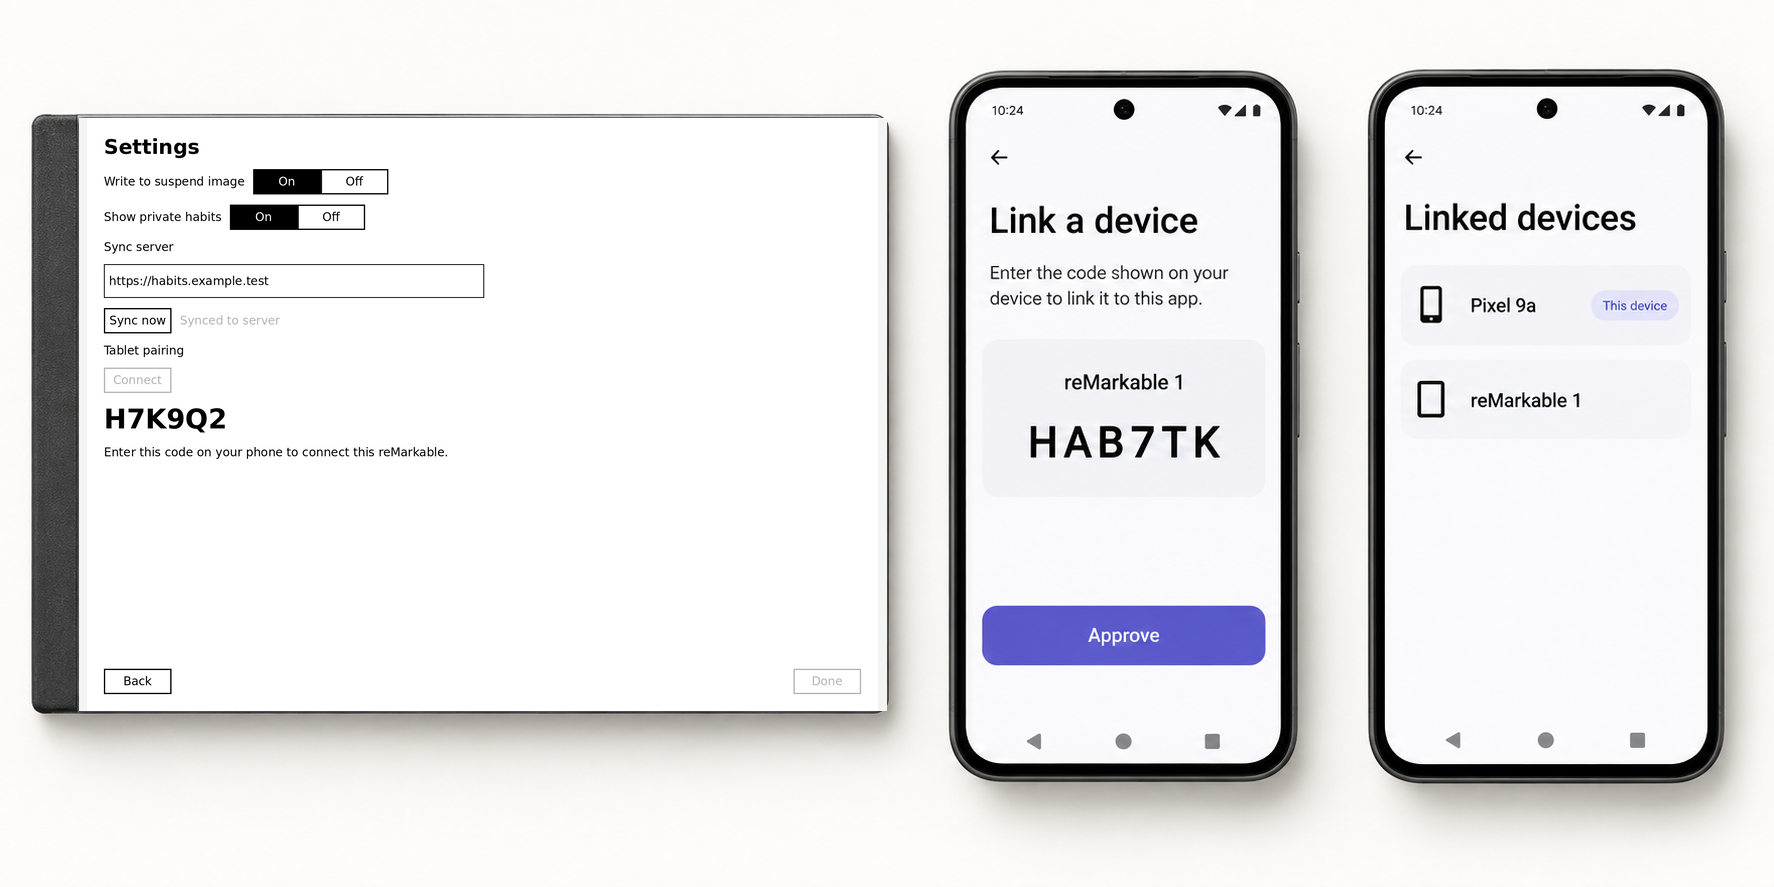
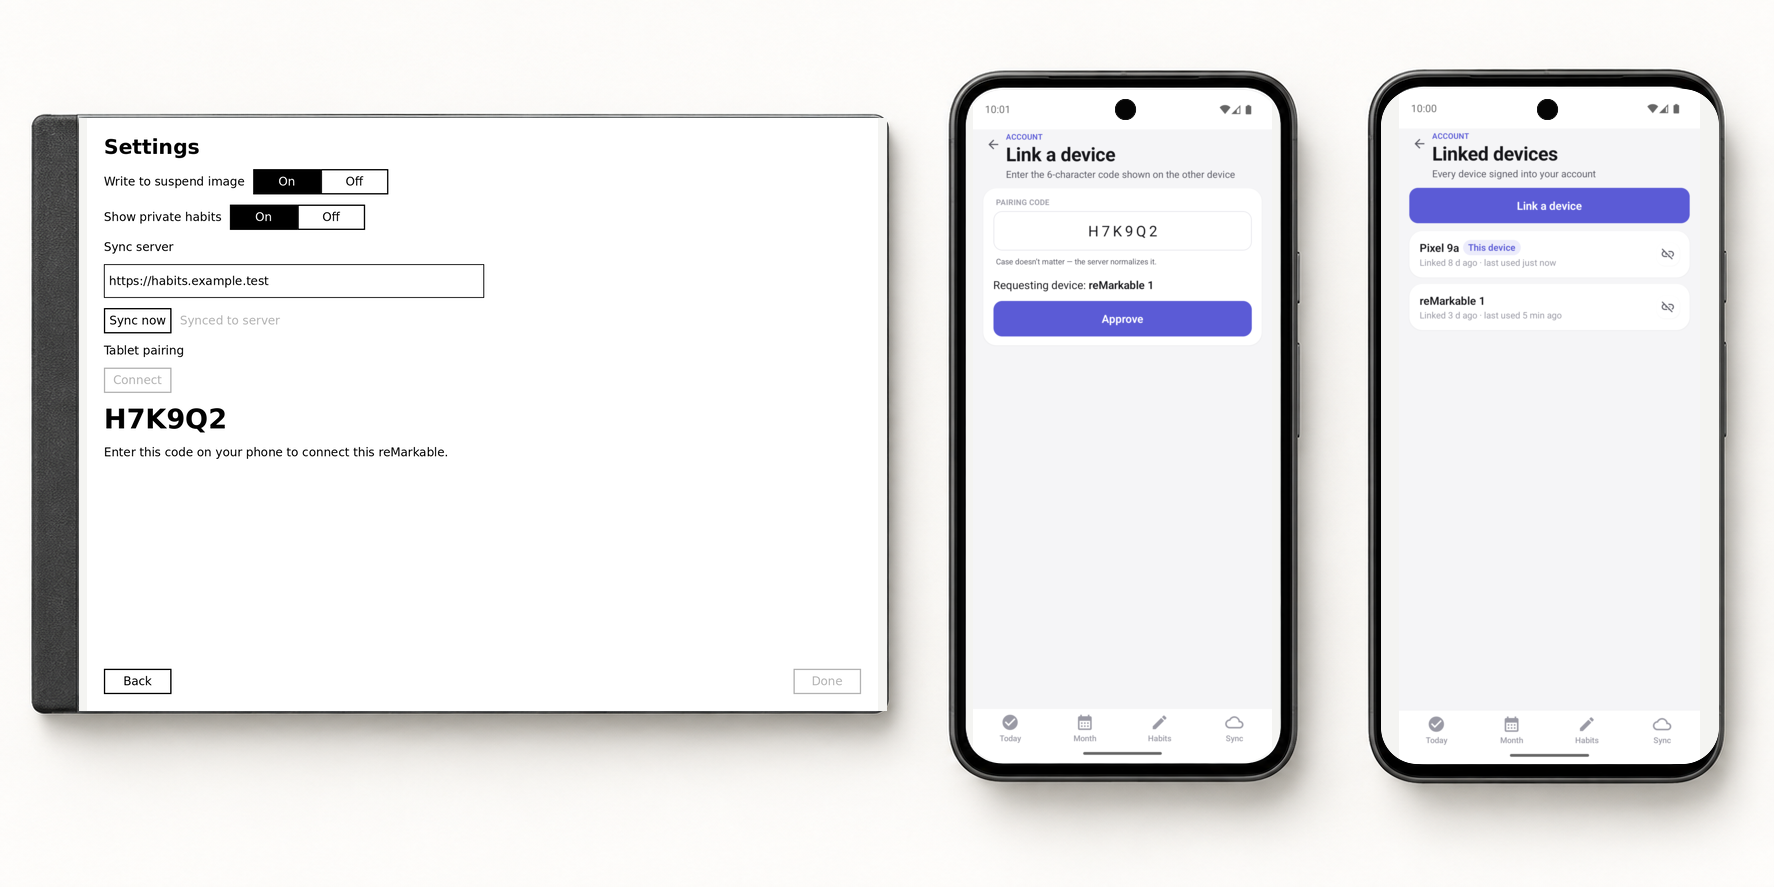
docs: use real Android screenshots
Frame all six native Android captures, replace the linking scene placeholders, and add the mobile workflow examples to the README.

diff --git a/README.md b/README.md
@@ -13,10 +13,9 @@
   </tr>
 </table>
 
-The screen pixels are captures from the real reMarkable interface and suspend renderer, populated
-with fictional sample data. A deterministic compositor fits them into the device artwork retained
-from the linking concept. The mobile screens shown later are explicitly marked as AI-generated
-placeholders until the native Android capture workflow is validated end to end.
+The screen pixels are captures from the real reMarkable and Android interfaces, populated with
+fictional sample data. A deterministic compositor fits them into the device artwork retained from
+the linking concept.
 
 This repository contains three parts of one habit-tracking system:
 
@@ -42,13 +41,12 @@ The reMarkable requests a short pairing code. The signed-in mobile app identifie
   <img src="docs/assets/screenshots/framed/remarkable-pairing.png" alt="The real reMarkable pairing screen showing fictional code H7K9Q2 inside a device frame" width="100%">
 </p>
 
-> [!WARNING]
-> **AI-generated placeholder:** The tablet screen below is a real capture fitted into the retained
-> device artwork. The mobile screens remain a visual concept until native Android captures are
-> added.
+> [!NOTE]
+> The device shells below are retained AI-generated artwork. All three screen interiors are real,
+> deterministic captures from the reMarkable and Android clients.
 
 <p align="center">
-  <img src="docs/assets/screenshots/framed/device-linking.png" alt="A real reMarkable pairing capture alongside AI-generated placeholders for mobile approval and linked devices, all fitted into device frames" width="100%">
+  <img src="docs/assets/screenshots/framed/device-linking.png" alt="Real reMarkable pairing, Android approval, and Android linked-device screens fitted into device frames" width="100%">
 </p>
 
 ## The reMarkable workflow
@@ -65,6 +63,31 @@ enough for an e-ink display.
   <tr>
     <td align="center"><sub>Edit, reorder, and change habits</sub></td>
     <td align="center"><sub>Control privacy, suspend rendering, and sync</sub></td>
+  </tr>
+</table>
+
+## The mobile workflow
+
+The native Android captures use the same fictional fixture as the tablet and backend. They show
+daily logging, month review, habit management, and the explicit sync state without contacting a
+live account.
+
+<table>
+  <tr>
+    <td width="50%"><img src="docs/assets/screenshots/framed/android-today.png" alt="The real Android Today screen inside a device frame"></td>
+    <td width="50%"><img src="docs/assets/screenshots/framed/android-month.png" alt="The real Android Month screen inside a device frame"></td>
+  </tr>
+  <tr>
+    <td align="center"><sub>Log today and follow streaks</sub></td>
+    <td align="center"><sub>Review the month</sub></td>
+  </tr>
+  <tr>
+    <td width="50%"><img src="docs/assets/screenshots/framed/android-habits.png" alt="The real Android Habits screen inside a device frame"></td>
+    <td width="50%"><img src="docs/assets/screenshots/framed/android-sync.png" alt="The real Android Sync screen inside a device frame"></td>
+  </tr>
+  <tr>
+    <td align="center"><sub>Manage habits and polarity</sub></td>
+    <td align="center"><sub>Control account and sync state</sub></td>
   </tr>
 </table>
 

diff --git a/docs/readme-screenshot-plan.md b/docs/readme-screenshot-plan.md
@@ -4,9 +4,9 @@
 
 The shared fixture, reMarkable offscreen host, suspend-renderer integration, and real reMarkable
 image set are implemented. Mobile now uses an additive test target and a manual capture workflow.
-The Expo Go test project must still be opened and visually reviewed by the user before its images
-replace the clearly labeled AI-generated mobile concept. README presentation copies are fitted into
-stable device frames derived from that concept; raw captures remain available separately.
+Its manually reviewed Android images replace the AI-generated screen concepts. README presentation
+copies are fitted into stable device frames derived from the original concept; raw captures remain
+available separately.
 
 ## Goal
 
@@ -191,8 +191,8 @@ explicit request for that specific operation.
 - Assert test time freezes both `new Date()` and `Date.now()` without changing explicit dates.
 - Confirm feature directories contain no test- or screenshot-specific imports or conditionals.
 - Inspect every committed image at GitHub-rendered size and full resolution.
-- Replace the AI mobile concept only after all six native screens have been manually reviewed.
+- Confirm all six native Android captures remain legible after device-frame composition.
 
-The workflow is complete when the test project can be opened in Expo Go, shows deterministic fixture
-data on every target screen without a backend, and lets a person capture the current screen without
-exposing normal app state or automating their desktop.
+The workflow is complete: the test project shows deterministic fixture data on every target screen
+without a backend, and a person can capture the current screen without exposing normal app state or
+automating their desktop.

diff --git a/tools/readme-screenshots/README.md b/tools/readme-screenshots/README.md
@@ -26,9 +26,9 @@ pnpm screenshots:frame -- --client android --scenario devices
 ```
 
 The three-device linking scene is generated separately. It replaces every source screen currently
-available and leaves the original concept pixels in any missing slot. That means the committed
-example can use the real tablet capture today, then pick up either Android screen independently as
-soon as its raw capture is added:
+available and leaves the original concept pixels in any missing slot. The committed example uses
+real captures in all three slots; the fallback only keeps partial regeneration possible if one is
+temporarily unavailable:
 
 ```sh
 pnpm screenshots:linking
